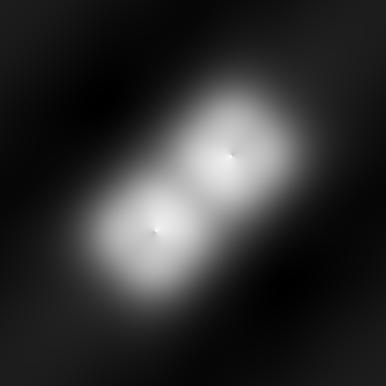
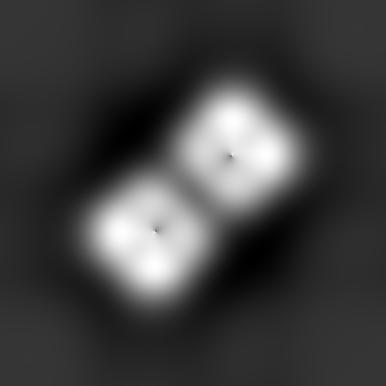
006 - Stylistic changes

diff --git a/QPM_main.py b/QPM_main.py
@@ -31,6 +31,29 @@ def myIFFT2(Fsignal,center = True):
     return result
 
 
+def kCoords(R,C,dx):
+    
+    dFx = 1.0/(dx*C)
+    dFy = 1.0/(dx*R)
+    
+    #kx = bf.np.matrix(bf.np.arange(-C/2,C/2))*dFx
+    #ky = bf.np.matrix(bf.np.arange(-R/2,R/2))*dFy
+    
+    kxP = (bf.np.arange(C/2)+1)*dFx
+    kxM = bf.np.sort(-1*kxP)
+    kx = bf.np.matrix(bf.np.concatenate((kxM,kxP)))
+    
+    kyP = (bf.np.arange(R/2)+1)*dFy
+    kyM = bf.np.sort(-1*kyP)
+    ky = bf.np.matrix(bf.np.concatenate((kyM,kyP)))
+    
+    kx = kx.T*bf.np.matrix(bf.np.ones(shape=[1,R]))
+    kx = bf.np.float64(kx.T)
+    ky = bf.np.float64(ky.T*bf.np.matrix(bf.np.ones(shape=[1,C])))
+    
+    return kx,ky
+
+
 def WxyFilterDenCorr(k,alpha,fselector):
     
     if len(alpha)==1:
@@ -132,12 +155,7 @@ def phaseReconstr(ZaxisDer,R,C,Ifuoco,fselect,k=kD,z=zD,dx=dxD,alphaCorr=alphaCo
     deltax = dx
     ZderFFT=myFFT2(ZaxisDer,CTR)
     
-    kx = bf.np.matrix(bf.np.arange(-C/2,C/2))
-    ky = bf.np.matrix(bf.np.arange(-R/2,R/2))
-    
-    kx = kx.T*bf.np.matrix(bf.np.ones(shape=[1,R]))
-    kx = bf.np.float64(kx.T)
-    ky = bf.np.float64(ky.T*bf.np.matrix(bf.np.ones(shape=[1,C])))
+    kx,ky = kCoords(R,C,1)
     
     kx[bf.np.where(kx == 0)] = zeroSubst
     ky[bf.np.where(ky == 0)] = zeroSubst
@@ -189,28 +207,12 @@ def phaseReconstr(ZaxisDer,R,C,Ifuoco,fselect,k=kD,z=zD,dx=dxD,alphaCorr=alphaCo
 
 def phaseReconstr_v2(ZaxisDer,R,C,Ifuoco,fselect,k=kD,z=zD,dx=dxD,alphaCorr=alphaCorrD,imgBitsPerPixel=8, onlyAguess = False):
     
-    deltax = dx
-    dFx = 1/(dx*C)
-    dFy = 1/(dx*R)
     if z is not None:
         ZderFFT=myFFT2(ZaxisDer*k/z,CTR)
     else:
         ZderFFT=myFFT2(ZaxisDer*k,CTR)
     
-    #kx = bf.np.matrix(bf.np.arange(-C/2,C/2))*dFx
-    #ky = bf.np.matrix(bf.np.arange(-R/2,R/2))*dFy
-    
-    kxP = (bf.np.arange(C/2)+1)*dFx
-    kxM = bf.np.sort(-1*kxP)
-    kx = bf.np.matrix(bf.np.concatenate((kxM,kxP)))
-    
-    kyP = (bf.np.arange(R/2)+1)*dFy
-    kyM = bf.np.sort(-1*kyP)
-    ky = bf.np.matrix(bf.np.concatenate((kyM,kyP)))
-    
-    kx = kx.T*bf.np.matrix(bf.np.ones(shape=[1,R]))
-    kx = bf.np.float64(kx.T)
-    ky = bf.np.float64(ky.T*bf.np.matrix(bf.np.ones(shape=[1,C])))
+    kx,ky = kCoords(R,C,dx)
     
     kx[bf.np.where(kx == 0)] = zeroSubst
     ky[bf.np.where(ky == 0)] = zeroSubst
@@ -232,11 +234,8 @@ def phaseReconstr_v2(ZaxisDer,R,C,Ifuoco,fselect,k=kD,z=zD,dx=dxD,alphaCorr=alph
     
     kxCorr = WxyFilterDenCorr(kx, alpha, fselect)
     kyCorr = WxyFilterDenCorr(ky, alpha, fselect)
-   
-    #kxCorr = bf.np.square(kx)*alpha
-    #kyCorr = bf.np.square(ky)*alpha
     
-    if len(alpha) == 1 and alpha[0] == 0:
+    if len(alpha) == 1 and alpha[0] == 0.0:
         oneone = bf.np.matrix(bf.np.ones((R,C)))
         Wx = Wy = bf.np.divide(oneone,V)
         print 'ciao'
@@ -244,11 +243,10 @@ def phaseReconstr_v2(ZaxisDer,R,C,Ifuoco,fselect,k=kD,z=zD,dx=dxD,alphaCorr=alph
         Wx = bf.np.divide(V,(bf.np.square(V)+kxCorr))
         Wy = bf.np.divide(V,(bf.np.square(V)+kyCorr))
     
-    FilterX = bf.np.multiply(bf.np.multiply(kx,Wx),ZderFFT)
     
     ###############################################################################################################
     
-    imgXr = bf.np.abs(FilterX)
+    imgXr = bf.np.abs(bf.np.multiply(kx,Wx))
     
     imgXr = imgXr - bf.np.min(imgXr)
     
@@ -256,7 +254,7 @@ def phaseReconstr_v2(ZaxisDer,R,C,Ifuoco,fselect,k=kD,z=zD,dx=dxD,alphaCorr=alph
     
     filterImXr.save('C:\\Users\\Ettore\\Desktop\\BuchiFilterX\\'+str(fselect)+'_'+str(alphaCorr[0])+'_'+(str(alphaCorr[1]) if len(alphaCorr)>1 else '')+'Xr.tif')
     
-    imgXp = bf.np.angle(FilterX)
+    imgXp = bf.np.angle(bf.np.multiply(kx,Wx))
     
     imgXp = imgXp - bf.np.min(imgXp)
     
@@ -265,7 +263,10 @@ def phaseReconstr_v2(ZaxisDer,R,C,Ifuoco,fselect,k=kD,z=zD,dx=dxD,alphaCorr=alph
     filterImXp.save('C:\\Users\\Ettore\\Desktop\\BuchiFilterX\\'+str(fselect)+'_'+str(alphaCorr[0])+'_'+(str(alphaCorr[1]) if len(alphaCorr)>1 else '')+'Xi.tif')
     
     ###############################################################################################################
+    ###############################################################################################################
     
+    
+    FilterX = bf.np.multiply(bf.np.multiply(kx,Wx),ZderFFT)
     IfftFiltX = myIFFT2(FilterX,CTR)
     divX = bf.np.divide(IfftFiltX,Ifuoco)
     #divX[fireInd] = bf.np.max(divX[bf.np.where(Ifuoco != 0)])
@@ -273,11 +274,10 @@ def phaseReconstr_v2(ZaxisDer,R,C,Ifuoco,fselect,k=kD,z=zD,dx=dxD,alphaCorr=alph
     mulX = bf.np.multiply(bf.np.multiply(Wx,kx),FFTdivX)
     IFFTmulX = -1*myIFFT2(mulX,CTR)
     
-    FilterY = bf.np.multiply(bf.np.multiply(ky,Wy),ZderFFT)
     
     ###############################################################################################################
     
-    imgYr = bf.np.abs(FilterY)
+    imgYr = bf.np.abs(bf.np.multiply(ky,Wy))
     
     imgYr = imgYr - bf.np.min(imgYr)
     
@@ -285,7 +285,7 @@ def phaseReconstr_v2(ZaxisDer,R,C,Ifuoco,fselect,k=kD,z=zD,dx=dxD,alphaCorr=alph
     
     filterImYr.save('C:\\Users\\Ettore\\Desktop\\BuchiFilterY\\'+str(fselect)+'_'+str(alphaCorr[0])+'_'+(str(alphaCorr[1]) if len(alphaCorr)>1 else '')+'Yr.tif')
     
-    imgYp = bf.np.angle(FilterY)
+    imgYp = bf.np.angle(bf.np.multiply(ky,Wy))
     
     imgYp = imgYp - bf.np.min(imgYp)
     
@@ -294,7 +294,9 @@ def phaseReconstr_v2(ZaxisDer,R,C,Ifuoco,fselect,k=kD,z=zD,dx=dxD,alphaCorr=alph
     filterImYp.save('C:\\Users\\Ettore\\Desktop\\BuchiFilterY\\'+str(fselect)+'_'+str(alphaCorr[0])+'_'+(str(alphaCorr[1]) if len(alphaCorr)>1 else '')+'Yi.tif')
     
     ###############################################################################################################
+    ###############################################################################################################
     
+    FilterY = bf.np.multiply(bf.np.multiply(ky,Wy),ZderFFT)
     IfftFiltY = myIFFT2(FilterY,CTR)
     divY = bf.np.divide(IfftFiltY,Ifuoco)
     #divY[fireInd] = bf.np.max(divY[bf.np.where(Ifuoco != 0)])
@@ -348,15 +350,7 @@ def AI(images, dz = zD, dx = dxD, k=kD, initPhase = None, errLim = 10**-6, iterL
     
     N,R,C = bf.np.shape(images)
     
-    dFx = 1/(dx*C)
-    dFy = 1/(dx*R)
-    
-    kx = bf.np.matrix(bf.np.arange(-C/2,C/2))*dFx
-    ky = bf.np.matrix(bf.np.arange(-R/2,R/2))*dFy
-    
-    kx = kx.T*bf.np.matrix(bf.np.ones(shape=[1,R]))
-    kx = bf.np.float64(kx.T)
-    ky = bf.np.float64(ky.T*bf.np.matrix(bf.np.ones(shape=[1,C])))
+    kx,ky = kCoords(R,C,dx)
     
     kpq = bf.np.square(kx) + bf.np.square(ky) 
     
@@ -397,12 +391,11 @@ def AI(images, dz = zD, dx = dxD, k=kD, initPhase = None, errLim = 10**-6, iterL
             #    csiK = bf.np.multiply(sqrtImgs[propList[ind+1]],(bf.np.cos(csiKp1P) + bf.np.sin(csiKp1P)*1j))
             #else:
             #    csiK = csiKp1
-            err = err = (1.0/(R*C))*float(bf.np.sum(bf.np.square(bf.np.square(csiK.real)+bf.np.square(csiK.imag)-images[propList[ind+1]])))
+            err = (1.0/(R*C))*float(bf.np.sum(bf.np.square(bf.np.square(csiK.real)+bf.np.square(csiK.imag)-images[propList[ind+1]])))
             
             if err > errLim:
                 csiKp1cR = sqrtImgs[propList[ind+1]]
-                csiKp1cP = bf.np.arctan2(csiKp1.imag,csiKp1.real)
-                csiKp1c = bf.np.multiply(csiKp1cR,(bf.np.cos(csiKp1cP) + bf.np.sin(csiKp1cP)*1j))
+                csiKp1c = bf.np.multiply(csiKp1cR,(bf.np.cos(csiKp1P) + bf.np.sin(csiKp1P)*1j))
                 phiGuess = propagateBack(csiKp1c, kpq, delta, k)
                 
             else:

diff --git a/QPM-GUI.py b/QPM-GUI.py
@@ -27,7 +27,7 @@ import csv
 #from matplotlib.backends.backend_wxagg import FigureCanvasWxAgg as FigureCanvas
 #from matplotlib.backends.backend_wx import NavigationToolbar2Wx
 
-polyfitDer = True
+polyfitDer = False
 zCorr = True
 
 if not polyfitDer:
